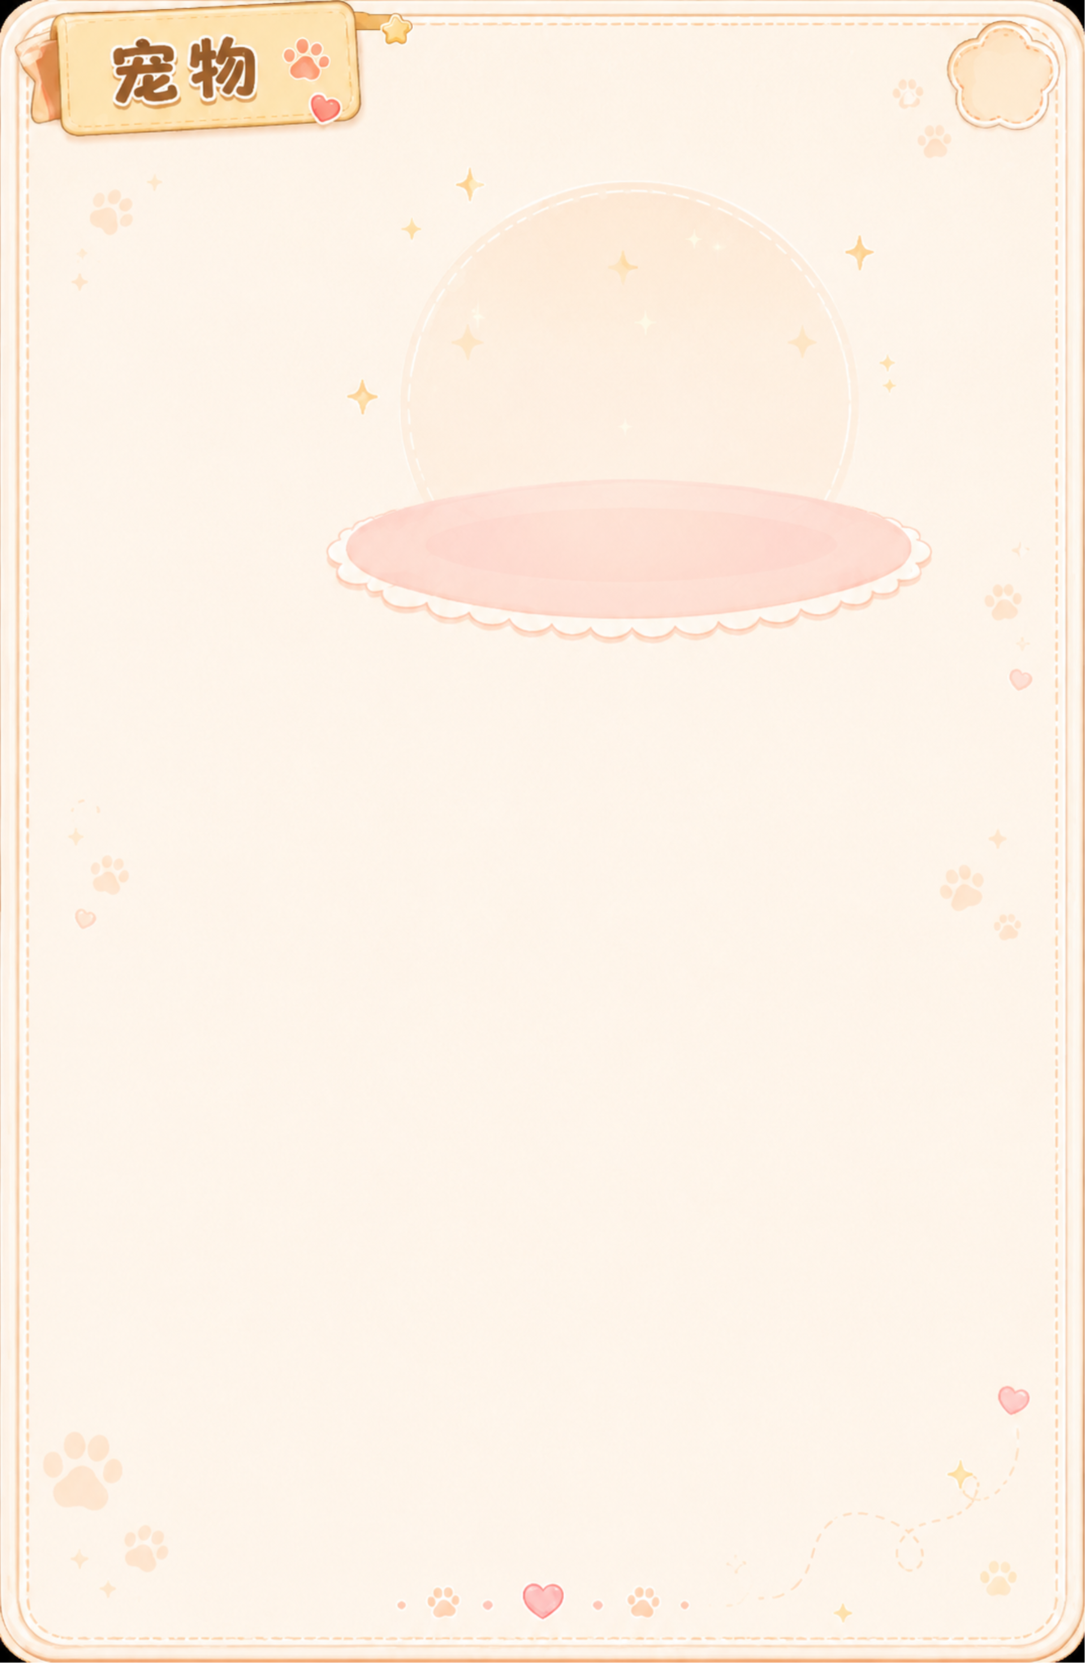
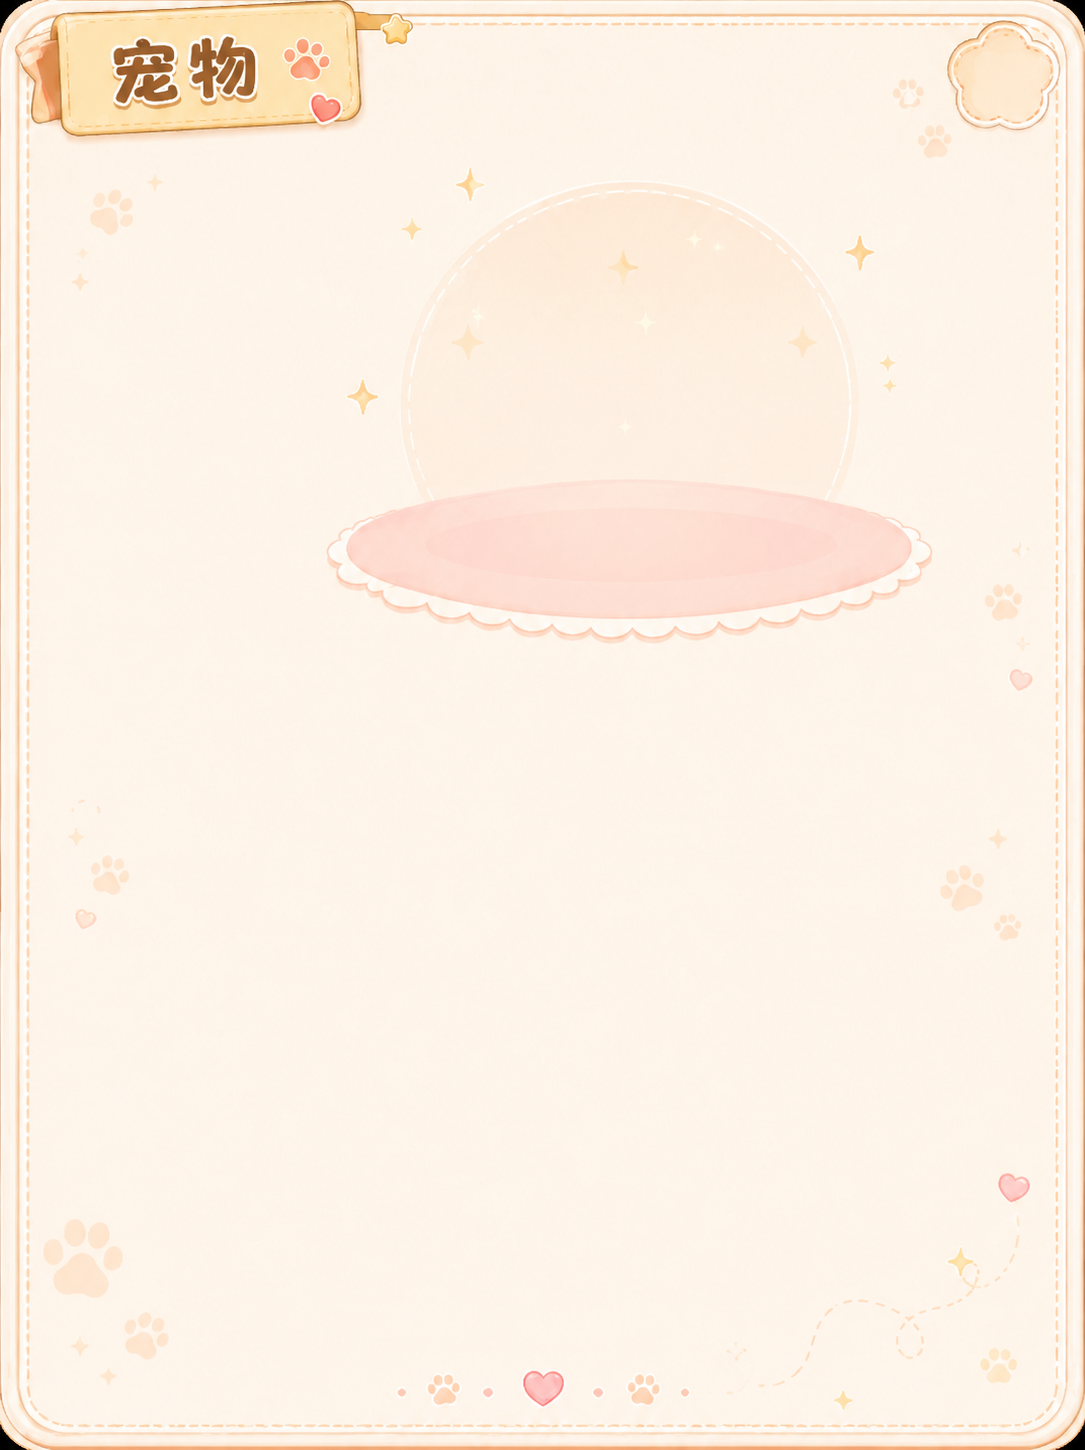
feat: pet profile round 15 — original-ratio background (1085x1450), layout rescaled to mat/circle positions

diff --git a/petpet/ui/pet_profile.py b/petpet/ui/pet_profile.py
@@ -34,10 +34,10 @@ _ASSET_DIR = os.path.join(
     "assets", "runtime", "ui", "pet_profile_new",
 )
 
-# 页面布局坐标 = new_background.png 艺术稿像素（1085x1663，第十四轮换装）。
+# 页面布局坐标 = new_background.png 艺术稿像素（1085x1450，第十五轮原比例版）。
 # 显示：与其他常驻面板统一 850x960——艺术稿按宽高各自比例非等比铺满；
 # 小屏放不下时按等比因子整体收缩（下限 0.55），保持 850:960 比例。
-ART_W, ART_H = 1085, 1663
+ART_W, ART_H = 1085, 1450
 UNIFIED_W, UNIFIED_H = 850, 960
 _SX = UNIFIED_W / ART_W
 _SY = UNIFIED_H / ART_H
@@ -53,31 +53,31 @@ CLOSE_CLICK_DEFER_MS = 80
 
 # 图1 左栏：宠物头像列表 rail（250x1326 素材，纯背景板无烘焙槽）+
 # 程序布局双卡槽（坐标按参考图反推到 art 比例）。
-RAIL_AT = (56, 150, 250, 1240)
-RAIL_TITLE_AT = (86, 208, 300, 42)           # 「我的伙伴与套装」小节标题
-PET_CARD_SLOTS = ((98, 300), (98, 680))      # 每卡头像左上（rail 内 art 坐标）
+RAIL_AT = (56, 130, 250, 1090)
+RAIL_TITLE_AT = (86, 182, 300, 42)           # 「我的伙伴与套装」小节标题
+PET_CARD_SLOTS = ((98, 262), (98, 592))      # 每卡头像左上（rail 内 art 坐标）
 PET_CARD_SIZE = (166, 166)
 PET_CARD_NAME_AT = (-20, 170, 206, 36)       # 名字（相对卡，卡下，略宽于卡居中）
 PET_CARD_TAG_AT = (12, 118, 142, 34)         # 使用中 pill（相对卡，卡内底部）
 
-# 图2 待机动画：新背景粉垫 x340-940 y480-640（虚线圆中心 ~640,400）。
-IDLE_PREVIEW_RECT = (415, 190, 450, 445)
-IDLE_FRAME_HEIGHT = 420
+# 图2 待机动画：粉垫 x340-940 y430-570（虚线圆中心 ~640,360）。
+IDLE_PREVIEW_RECT = (415, 140, 450, 430)
+IDLE_FRAME_HEIGHT = 410
 IDLE_FPS = 8
 
 # 图3 名字牌（rename_bg 323x63）+ 改名钮（change_name 94x55）：
 # 垫正下方横排居中——牌 300 宽 + 改名钮 84 宽，组合居中于垫（中心 640）。
-NAME_PLATE_AT = (470, 664, 300, 58)
-NAME_LABEL_AT = (492, 670, 176, 46)
-RENAME_BUTTON_AT = (782, 670, 84, 48)
+NAME_PLATE_AT = (470, 590, 300, 58)
+NAME_LABEL_AT = (492, 596, 176, 46)
+RENAME_BUTTON_AT = (782, 596, 84, 48)
 
 # 分栏（description_bg）：名字牌下方；两页「简介 / 套装」。
-TAB_BAR_AT = (330, 756, 728, 69)
+TAB_BAR_AT = (330, 684, 728, 69)
 TAB_SLOTS = {
-    "简介": (390, 768, 140, 46),
-    "套装": (540, 768, 140, 46),
+    "简介": (390, 696, 140, 46),
+    "套装": (540, 696, 140, 46),
 }
-CONTENT_AT = (330, 850, 728, 650)
+CONTENT_AT = (330, 778, 728, 600)
 
 # 套装素材（新 art 直接按套装 id 映射；未映射回退 idle 预览路径）。
 OUTFIT_ART = {

diff --git a/tests/test_pet_profile.py b/tests/test_pet_profile.py
@@ -120,7 +120,7 @@ class ProfileWindowShellTests(unittest.TestCase):
         from petpet.ui import pet_profile as module
 
         # 用户定稿：与其他常驻面板统一 850x960（艺术稿 1085x1663 非等比铺满）。
-        self.assertEqual((module.ART_W, module.ART_H), (1085, 1663))
+        self.assertEqual((module.ART_W, module.ART_H), (1085, 1450))
         self.assertEqual((module.UNIFIED_W, module.UNIFIED_H), (850, 960))
         window, _ = self._window()
         self.assertEqual((window.width(), window.height()), (850, 960))
@@ -347,8 +347,8 @@ class ProfileWindowShellTests(unittest.TestCase):
         from petpet.ui.pet_profile import PET_CARD_SLOTS
 
         # 十四轮新 rail 布局：卡2 y702（参考图比例），卡1 y322。
-        self.assertEqual(PET_CARD_SLOTS[1][1], 680)
-        self.assertEqual(PET_CARD_SLOTS[0][1], 300)
+        self.assertEqual(PET_CARD_SLOTS[1][1], 592)
+        self.assertEqual(PET_CARD_SLOTS[0][1], 262)
 
     def test_outfit_cards_have_equip_buttons(self):
         window, _ = self._window()
